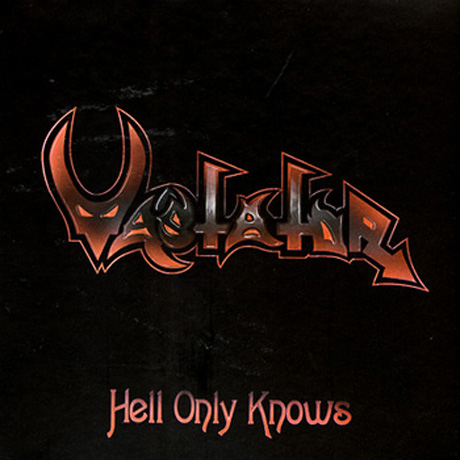
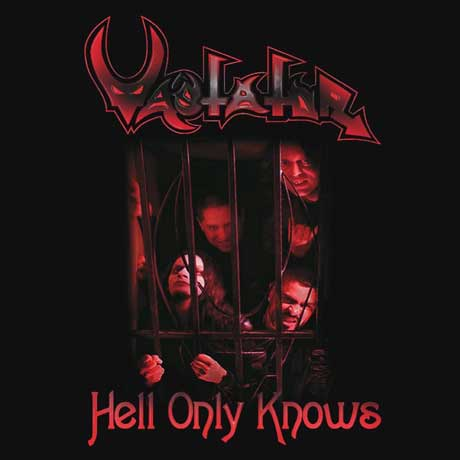
se genera admin para galeria se cambia imagen de hok se agrega acustic sessions

Changed region(s): [[0.0913, 0.0304, 0.9435, 0.9739]]

diff --git a/public/application/forms/Gallery.php b/public/application/forms/Gallery.php
@@ -1,0 +1,50 @@
+<?php
+
+class Application_Form_Gallery extends Zend_Form
+{
+
+    public function init()
+    {
+        $this->addElement(
+            'file',
+            'image',
+            array(
+                'label' => 'Seleccione una imagen',
+                'required' => true
+            )
+        );
+        
+        $this->addElement(
+            'select',
+            'year',
+            array(
+                'label' => '¿De que año es la imagen?',
+                'required' => true
+            )
+        );
+        $year = $this->getElement('year');
+        for($i = 1986; $i <= date('Y'); $i++) {
+            $year->addMultiOption($i, $i);
+        }
+        $this->setDefault('year', date('Y'));
+        
+        $this->addElement(
+            'text',
+            'description',
+            array(
+                'label' => 'Descripcion opcional'
+            )
+        );
+        
+        $this->addElement(
+            'submit',
+            'addTour',
+            array(
+                'label' => 'Agregar'
+            )
+        );
+    }
+
+
+}
+

diff --git a/public/application/controllers/AdminController.php b/public/application/controllers/AdminController.php
@@ -70,4 +70,26 @@ class AdminController extends Zend_Controller_Action
         $this->view->form = $form;
     }
 
+    public function galleryAction()
+    {
+        $form = new Application_Form_Gallery();
+            if ($this->_request->isPost() && $form->isValid($this->_request->getPost())) {
+            if (!$form->image->receive()) {
+                $this->view->message = 'No se pudo guardar la imagen';
+            } else {
+                $galleryModel = new Application_Model_DbTable_Gallery();
+                $galleryModel->insert(
+                    array(
+                        'year' => $form->year->getValue(),
+                        'description' => $form->description->getValue(),
+                        'image' => $form->image->getValue(),
+                    )
+                );
+                $form->reset();
+                $this->view->message = "Imagen agregada con exito";
+            }
+        }
+        $this->view->form = $form;
+    }
+
 }

diff --git a/public/application/controllers/IndexController.php b/public/application/controllers/IndexController.php
@@ -62,7 +62,13 @@ class IndexController extends Zend_Controller_Action
 
     public function galleryAction()
     {
-        // action body
+        $year = $this->_request->getParam('date', 2010);
+        $endYear = $year + 10;
+        $galleryModel = new Application_Model_DbTable_Gallery();
+        $galleryData = $galleryModel->fetchAll($galleryModel->select()->where("year > $year AND year < $endYear"));
+        $this->view->gallery = $galleryData->toArray();
+        
+        $this->view->year = $year;
     }
 
     public function discographyAction()

diff --git a/public/application/models/DbTable/Gallery.php b/public/application/models/DbTable/Gallery.php
@@ -1,0 +1,10 @@
+<?php
+
+class Application_Model_DbTable_Gallery extends Zend_Db_Table_Abstract
+{
+
+    protected $_name = 'gallery';
+
+
+}
+
